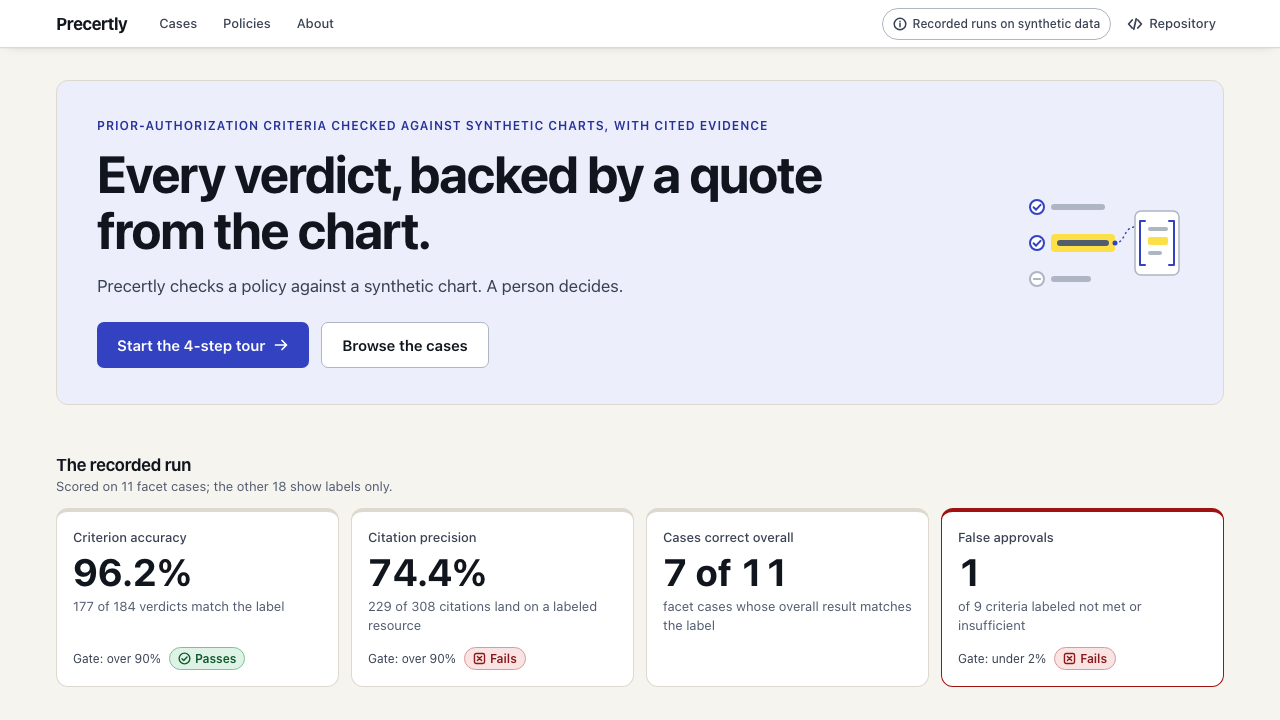
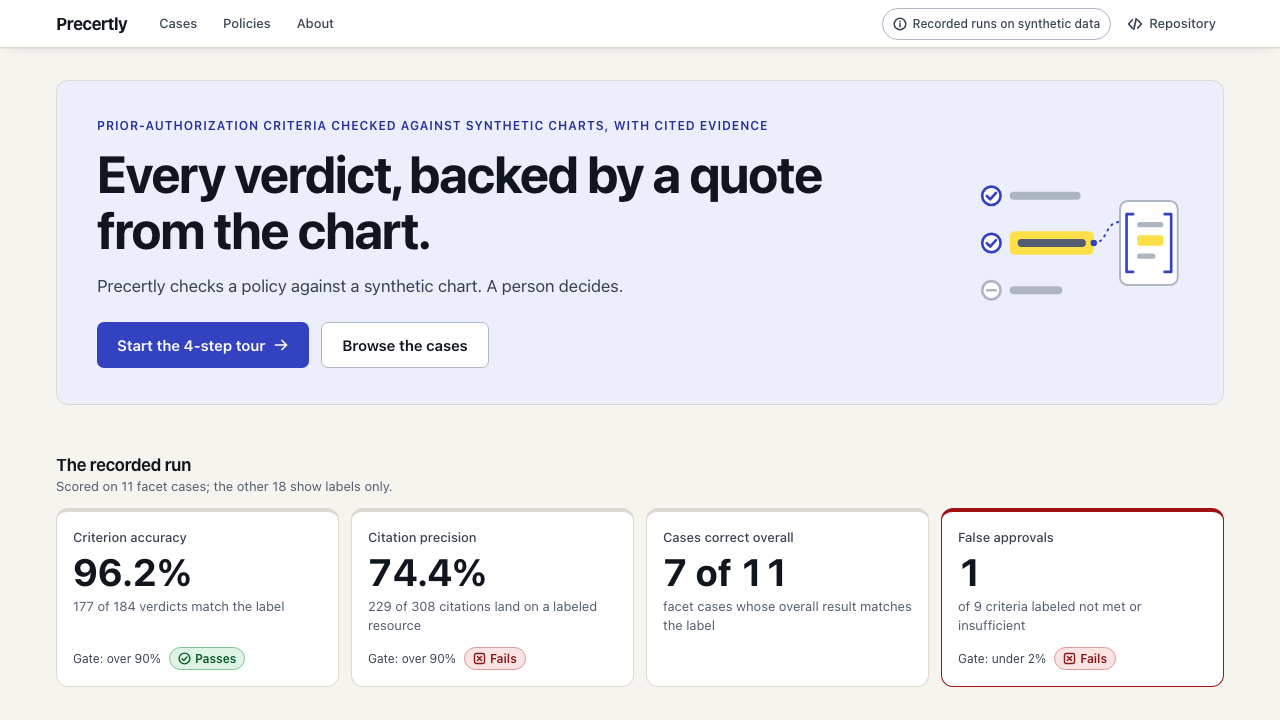
Scale the landing motif up at lg and tighten the mobile eyebrow

Changed region(s): [[0.75, 0.2444, 0.9375, 0.4278]]

diff --git a/web/src/screens/Landing.tsx b/web/src/screens/Landing.tsx
@@ -17,7 +17,7 @@ export function Landing() {
         className="flex items-center justify-between gap-8 rounded-lg border border-line bg-band px-5 py-8 sm:px-10 sm:py-9"
       >
         <div className="min-w-0">
-          <p className="max-w-3xl text-xs font-semibold uppercase tracking-eyebrow text-accent-strong">
+          <p className="max-w-3xl text-xs font-semibold uppercase tracking-wide text-accent-strong sm:tracking-eyebrow">
             Prior-authorization criteria checked against synthetic charts, with cited evidence
           </p>
           <h1 id="hero-h" className="mt-3 max-w-3xl text-3xl font-bold tracking-tight sm:text-4xl">
@@ -42,7 +42,7 @@ export function Landing() {
             </a>
           </div>
         </div>
-        <EvidenceMotif className="hidden shrink-0 sm:block" />
+        <EvidenceMotif className="hidden h-30 w-40 shrink-0 sm:block lg:h-[158px] lg:w-[210px]" />
       </section>
 
       <section aria-labelledby="tiles-h">
